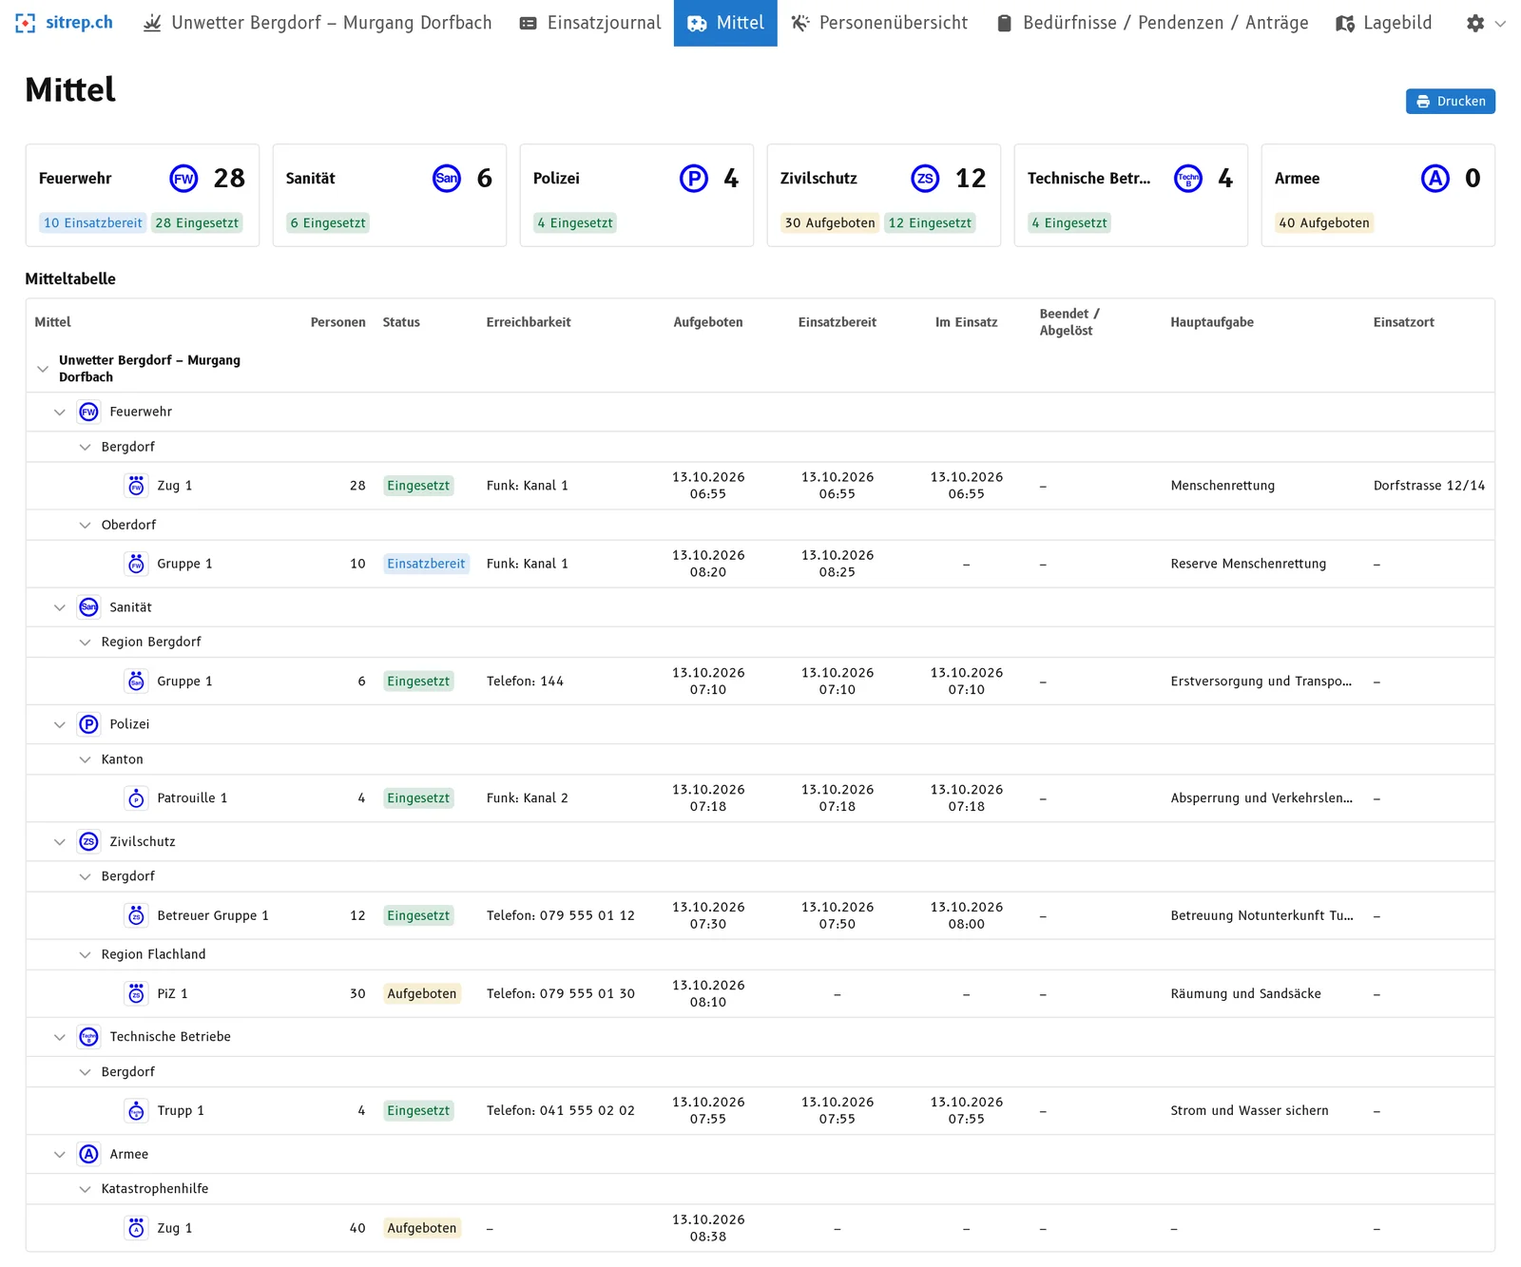
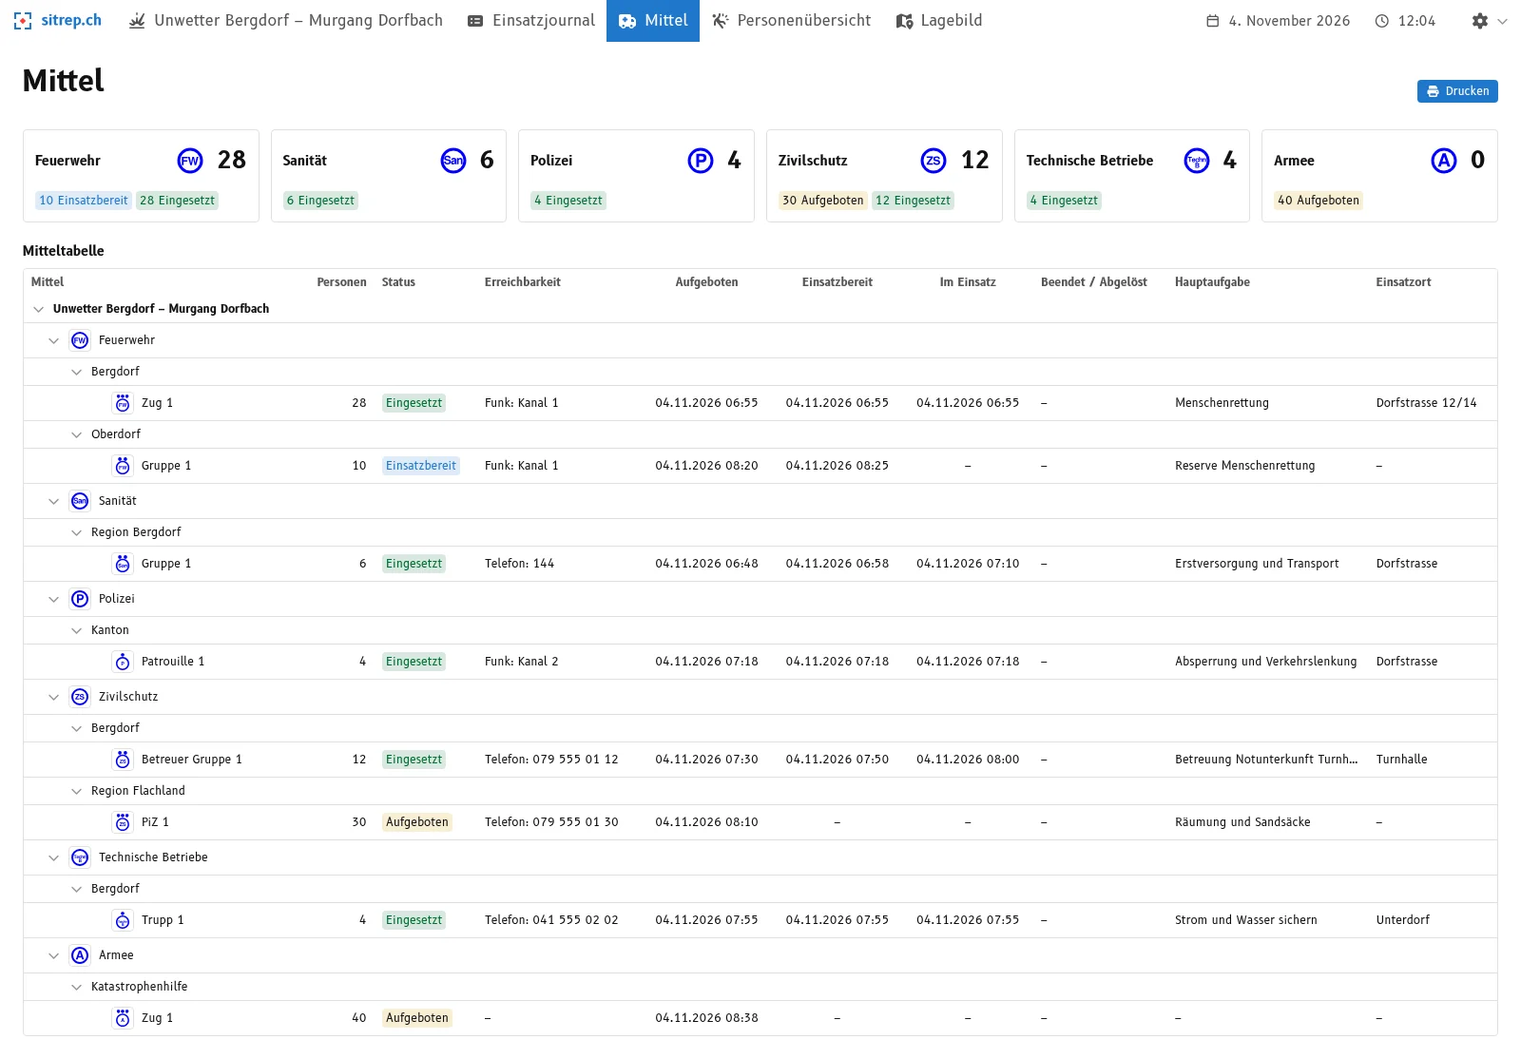
feat(content): screenshots and texts for the four-step triage (#8)
* feat(content): update the triage article for the four-step triage

The Schadenplatz step is gone from the triage. Describe four steps, add an example for the
Personen step and replace the screenshots (German UI, without tasks and review).

* feat(content): retake the feature screenshots, drop Schadenplatz and tasks from the pages

The overviews no longer split casualties by Schadenplatz, and the tasks module is not shown
publicly yet. The FR and IT wording follows the German change and should be reviewed by native speakers.

* chore(content): remove unused screenshots from 2024

They are not referenced anywhere but were still served, and show the old triage dialog.

* feat(content): publish triage blog post

* feat(content): update triage post availability to v26.11.0

* feat(content): set triage post date to 2026-11-04

* chore(content): rename triage post folder to 2026-11

---------

diff --git a/content/blog/2026-11-triage-personen-mittelubersicht/index.md b/content/blog/2026-11-triage-personen-mittelubersicht/index.md
@@ -1,7 +1,6 @@
 ---
 title: "Mit sitrep von der Meldung zur Lage in einem Schritt"
-date: 2026-10-13
-draft: true
+date: 2026-11-04
 tags: ["triage", "neue-funktion"]
 summary: "Die neue Triage-Ansicht in sitrep führt Personen- und Mittelübersicht gleich mit: Wer eine Meldung triagiert, erfasst Personen und Einsatzmittel in einem Schritt, und die Lage lässt sich jederzeit vom Bildschirm ablesen."
 cover: "images/dashboard.webp"
@@ -16,13 +15,15 @@ Jetzt zählt jede Minute. Der Stab braucht Antworten:
 
 Die Antworten stecken irgendwo in den Meldungen der letzten Stunden. Jemand blättert im Einsatzjournal, jemand anderes zählt auf einem Zettel zusammen. Das kostet Zeit, und es schleichen sich Fehler ein: eine Meldung doppelt gezählt, eine vergessen, ein Zwischenstand veraltet.
 
-Dabei wurde jede dieser Meldungen schon einmal gelesen und beurteilt: in der Triage. Genau dort setzt die neue Triage-Ansicht in sitrep an, der Software für die Führungsunterstützung. Wer eine Meldung triagiert, führt Personen- und Mittelübersicht gleich mit. Wenn die Anfrage kommt, lässt sich die Antwort vom Bildschirm ablesen.
+Dabei wurde jede dieser Meldungen schon einmal gelesen und beurteilt: in der Triage. Genau dort setzt die neue Triage-Ansicht in [sitrep]({{< relref "/funktionen" >}}) an, der Open-Source-Software für die Führungsunterstützung im Bevölkerungsschutz. Wer eine Meldung triagiert, erfasst nur, was die Meldung Neues sagt: «ein Vermisster weniger, ein Verletzter mehr», «Zug aufgeboten», «Gruppe eingesetzt». Personen- und Mittelübersicht ergeben sich daraus von selbst. Wenn die Anfrage kommt, lässt sich die Antwort vom Bildschirm ablesen.
+
+Die neue Triage-Ansicht haben wir gemeinsam mit ausgewählten Organisationen entwickelt und in einer grossen Übung getestet. Mit dem Release [v26.11.0](https://github.com/f-eld-ch/sitrep/releases/tag/v26.11.0) ist sie für alle sitrep-Nutzenden verfügbar.
 
 In diesem Artikel zeigen wir, wie das funktioniert und warum die Triage der richtige Ort dafür ist. Sie erfahren auch, warum das keinen Zusatzaufwand bedeutet.
 
 ## Was der Führungsbehelf dazu sagt
 
-Der Führungsbehelf «Handbuch Führungsunterstützung – Lage» legt den Weg der Meldung klar fest:
+Der BABS-Behelf «Behelf Einsatz Lage» legt den Weg der Meldung klar fest:
 
 - Die **Triage** ist die Stelle, an der Meldungen in den Lageverarbeitungszyklus eintreten. Dort werden alle Meldungen gesichtet, priorisiert und an die richtigen Stellen weitergeleitet. Beim Triagieren wird auch festgelegt, welche Inhalte in welchen Produkten erfasst werden.
 - Die **Mittelübersicht** gehört zu den Standardprodukten im Sachbereich Lage. Sie ist der tabellarische Überblick über alle Einsatzmittel: auf Pikett gestellt, aufgeboten, einsatzbereit, eingesetzt oder zur Ablösung vorgesehen.
@@ -38,7 +39,7 @@ Man könnte die Übersichten auch «bei Bedarf» nachführen, zum Beispiel jede 
 Die Person in der Triage hat die Meldung vor sich. Sie weiss, was gemeint ist, und kann bei Unklarheiten sofort nachfragen. Eine Stunde später muss jemand die Meldung erneut lesen und deuten.
 
 **2. Nachzählen ist fehleranfällig.**
-Wer alle Meldungen periodisch zusammenzählt, muss jede Meldung nochmals anfassen. Das ist die perfekte Gelegenheit für Doppelzählungen und Vergessenes. Wer jede Änderung genau einmal erfasst, zählt automatisch richtig.
+Wer alle Meldungen periodisch zusammenzählt, muss jede Meldung nochmals anfassen. So entstehen Doppelzählungen, und Meldungen gehen vergessen. Wer jede Änderung genau einmal erfasst, zählt automatisch richtig.
 
 **3. Alle arbeiten mit denselben Zahlen.**
 Der Behelf verlangt, dass sich Textprodukte und Grafikprodukte nicht widersprechen. Das geht nur, wenn es eine gemeinsame Quelle gibt. In sitrep sind Dashboard, Personenübersicht und Mittelübersicht immer aus denselben Triage-Eingaben berechnet.
@@ -48,9 +49,9 @@ Wenn der Stab fragt «Woher kommen die 37 Obdachlosen?», lässt sich das zur Me
 
 Kurz: **Die Information wird einmal erfasst, am richtigen Ort im Prozess, und steht danach in allen Übersichten bereit.**
 
-## Die neue Triage in fünf Schritten
+## Die neue Triage in vier Schritten
 
-Bisher wurden Meldungen mit Schaltflächen direkt bei der Meldung triagiert. Die neue Triage-Ansicht ist eine eigene Ansicht und führt durch fünf Schritte. Das Beispiel ist ein fiktives Ereignis: ein Murgang im Dorf «Bergdorf» nach einem Unwetter.
+Die Triage-Ansicht führt durch vier Schritte. Das Beispiel ist ein fiktives Ereignis: ein Murgang im Dorf «Bergdorf» nach einem Unwetter. Alle Namen und Zahlen auf den Bildern sind erfunden.
 
 ### 1. Meldung prüfen
 
@@ -64,21 +65,15 @@ Hier wird entschieden, wer die Meldung erhalten muss: Chef Einsatz, Nachrichtenk
 
 ![Schritt 2: Meldefluss festlegen](images/triage-2-meldefluss.webp)
 
-### 3. Schadenplatz wählen
-
-Betrifft die Meldung einen bestimmten Schadenplatz? Falls ja, wird er hier gewählt, oder direkt ein neuer angelegt. Alle Zahlen im nächsten Schritt werden diesem Schadenplatz zugeordnet.
-
-![Schritt 3: Schadenplatz wählen](images/triage-3-schadenplatz.webp)
-
-### 4. Personen erfassen
+### 3. Personen erfassen
 
 Hier werden die Personenzahlen erfasst, in den fünf Kategorien Verletzte, Vermisste, Eingeschlossene, Obdachlose und Tote.
 
-Wichtig: Man erfasst nur das, **was die Meldung Neues sagt**. Wenn eine vermisste Person gefunden wird, steht bei Vermissten «−1» und bei Verletzten oder Toten «+1». sitrep rechnet die Gesamtzahl selbst nach und verhindert, dass ein Wert unter null fällt. Rechts ist sofort die Wirkung der Eingabe zu sehen.
+Wichtig: Man erfasst nur das, **was die Meldung Neues sagt**. Meldet die Sanität drei weitere Leichtverletzte, steht bei Verletzten «+3». Wurde eine zuvor vermisste Person gefunden und ist verletzt, erfasst man bei Vermissten «−1» und bei Verletzten «+1». Rechts ist sofort die Wirkung auf die Personenübersicht zu sehen.
 
-![Schritt 4: Personen erfassen, mit Vorschau der Personenübersicht](images/triage-4-personen.webp)
+![Schritt 3: Personen erfassen, mit Vorschau der Personenübersicht](images/triage-3-personen.webp)
 
-### 5. Mittel aufbieten und disponieren
+### 4. Mittel aufbieten und disponieren
 
 Meldungen betreffen oft Einsatzmittel. Hier wird festgehalten, was mit ihnen passiert ist. Jede Änderung wird mit der **Zeit der Meldung** in der Mitteltabelle festgehalten. Ein Einsatzmittel durchläuft dabei diese Stationen:
 
@@ -91,15 +86,9 @@ Die vier wichtigsten Aktionen:
 - **Disponieren und einsetzen:** Das Mittel erhält Auftrag (Hauptaufgabe) und Einsatzort und wird eingesetzt. Beides ist Pflicht, damit die Mitteltabelle nie ein Mittel im Einsatz ohne Auftrag zeigt.
 - **Ablösen:** Ein anderes Mittel übernimmt. Auftrag und Einsatzort gehen automatisch an die Ablösung. Das abgelöste Mittel bleibt mit seiner Einsatzgeschichte in der Übersicht.
 
-Weitere Aktionen für den Alltag im Einsatz:
+Dazu kommen die Aktionen für den Alltag im Einsatz: umdisponieren, Einsatz abschliessen, entlassen, bei mehrtägigen Einsätzen reaktivieren und die Erreichbarkeit (Funkkanal, Telefon) pflegen.
 
-- **Umdisponieren:** Hauptaufgabe, Einsatzort oder Schadenplatz eines Mittels werden angepasst.
-- **Einsatz abgeschlossen:** Das Mittel kommt aus dem Einsatz zurück und ist wieder einsatzbereit.
-- **Entlassen:** Das Mittel wird aus dem Einsatz entlassen und gilt als abgelöst.
-- **Reaktivieren:** Bei mehrtägigen Einsätzen kommt ein abgelöstes Mittel am nächsten Tag wieder in den Dienst.
-- **Erreichbarkeit pflegen:** Funkkanal oder Telefonnummer lassen sich anpassen.
-
-![Schritt 5: Neues Mittel aufbieten](images/triage-5-mittel-aufbieten.webp)
+![Schritt 4: Neues Mittel aufbieten](images/triage-4-mittel-aufbieten.webp)
 
 Mit «Triage abschliessen» wird alles in einem Zug gespeichert.
 
@@ -107,19 +96,19 @@ Mit «Triage abschliessen» wird alles in einem Zug gespeichert.
 
 Digitale Lageverarbeitung darf kein Zusatzaufwand sein. Niemand soll Informationen, die die Führungsunterstützung ohnehin verarbeitet, ein zweites Mal in ein digitales Tool übertragen müssen. Sie muss ein fester Bestandteil des Verarbeitungsprozesses sein: Die Arbeit im Tool ist die Arbeit im Prozess.
 
-Genau so ist die Triage-Ansicht aufgebaut. Sie führt durch die Schritte, die der Führungsbehelf für die Triage vorsieht: Meldung prüfen, Meldefluss festlegen, Schadenplatz zuordnen, Personen und Mittel erfassen. Was in der Triage entschieden wird, ist gleichzeitig der Eintrag in den Übersichten. Es gibt keine zweite Erfassung.
+Genau so ist die Triage-Ansicht aufgebaut. Sie führt durch die Schritte, die der Führungsbehelf für die Triage vorsieht: Meldung prüfen, Meldefluss festlegen, Personen und Mittel erfassen. Was in der Triage entschieden wird, ist gleichzeitig der Eintrag in den Übersichten. Es gibt keine zweite Erfassung.
 
-Das hilft einem Stab und der Führungsunterstützung auch unter Zeitdruck, sich an die richtigen Abläufe zu halten. In den Schritten 3 bis 5 muss nur etwas erfasst werden, wenn die Meldung einen Schadenplatz, Personen oder Einsatzmittel betrifft. Sonst geht es mit «Weiter» zügig durch.
+So bleibt auch unter Zeitdruck der richtige Ablauf erhalten. In den Schritten 3 und 4 muss nur etwas erfasst werden, wenn die Meldung Personen oder Einsatzmittel betrifft. Sonst geht es mit «Weiter» zügig durch.
 
 ## Das Ergebnis: Übersichten, die dem aktuellen Triagestand entsprechen
 
-Zurück zum Beispiel aus der Einleitung: Der Kanton verlangt um 08:45 eine Lagemeldung mit Personen- und Mittelübersicht. Im Ereignis «Murgang in Bergdorf» sind die bisherigen Meldungen triagiert. Die Antwort an den Kanton ist darum keine Rechenaufgabe mehr: Die Informationen lassen sich jederzeit triageaktuell aus der Personenübersicht und der Mittelübersicht ablesen.
+Zurück zum Beispiel aus der Einleitung: Der Kanton verlangt um 08:45 eine Lagemeldung mit Personen- und Mittelübersicht. Im Ereignis «Murgang in Bergdorf» sind die bisherigen Meldungen triagiert. Die Antwort an den Kanton ist darum keine Rechenaufgabe mehr: Die Informationen lassen sich jederzeit auf dem Stand der letzten Triage aus der Personenübersicht und der Mittelübersicht ablesen.
 
 ### Personenübersicht
 
-Die Personenübersicht zeigt die Gesamtzahlen und die Aufteilung nach Schadenplätzen. Sie entspricht jederzeit dem aktuellen Triagestand, ohne dass jemand etwas zusammenzählen muss.
+Die Personenübersicht zeigt die Gesamtzahlen der fünf Kategorien. Sie entspricht jederzeit dem aktuellen Triagestand, ohne dass jemand etwas zusammenzählen muss.
 
-![Personenübersicht mit Aufteilung nach Schadenplätzen](images/personenubersicht.webp)
+![Personenübersicht mit den Gesamtzahlen der fünf Kategorien](images/personenubersicht.webp)
 
 ### Mittelübersicht
 
@@ -162,4 +151,4 @@ Ob mit Zettel, Tabelle oder einem anderen Tool: Prüfen Sie es in Ihrer nächste
 
 Wenn Ihnen diese Fragen bekannt vorkommen, probieren Sie sitrep direkt selbst aus: [demo.sitrep.ch](https://demo.sitrep.ch). Oder wir zeigen Ihnen gerne, wie sitrep damit umgeht, an einem Beispielereignis oder in Ihrer nächsten Übung. Schreiben Sie uns an [info@sitrep.ch](mailto:info@sitrep.ch).
 
-Die neue Triage-Ansicht mit Personen- und Mittelübersicht testen aktuell ausgewählte Organisationen in einer **geschlossenen Vorabversion**. Wir rechnen damit, dass sie **Anfang November** für alle sitrep-Nutzenden verfügbar ist.
+Die Triage-Ansicht ist mit dem Release v26.11.0 allgemein verfügbar.

diff --git a/content/funktionen/_index.fr.md b/content/funktionen/_index.fr.md
@@ -19,18 +19,18 @@ features:
     text: "Aucun message ne se perd : vous examinez chaque message, l'attribuez aux domaines et marquez les renseignements-clés."
     points:
       - "Fixer la priorité et marquer les renseignements-clés"
-      - "Saisir les personnes : blessés, disparus, personnes bloquées, sans-abri et décès, par zone sinistrée"
+      - "Saisir les personnes : blessés, disparus, personnes bloquées, sans-abri et décès"
       - "Saisir les moyens engagés : mise sur pied, prêt, engagement et relève"
       - "Imprimer la feuille de message, pour les domaines sans accès à sitrep"
       - "Domaines extensibles à volonté pour chaque événement"
     image: "images/features/triage-2-meldefluss.webp"
-    image2: "images/features/triage-4-personen.webp"
+    image2: "images/features/triage-3-personen.webp"
     image2_alt: "Triage : saisie des personnes, avec aperçu du tableau des personnes"
   - id: "personen"
     title: "Vue d'ensemble des personnes"
-    text: "Combien y a-t-il de blessés, de disparus, de personnes bloquées, de sans-abri et de décès, et où ? La vue d'ensemble des personnes répond immédiatement : totaux et répartition par zone sinistrée, toujours à l'état du triage."
+    text: "Combien y a-t-il de blessés, de disparus, de personnes bloquées, de sans-abri et de décès ? La vue d'ensemble des personnes répond immédiatement, toujours à l'état du triage."
     image: "images/features/personenubersicht.webp"
-    image_alt: "Vue d'ensemble des personnes avec répartition par zone sinistrée"
+    image_alt: "Vue d'ensemble des personnes avec les totaux des cinq catégories"
   - id: "mittel"
     title: "Vue d'ensemble des moyens"
     text: "Toujours une vue d'ensemble de tous les moyens d'intervention : mis sur pied, prêts, engagés, relevés. Groupés par formation, directement depuis le triage."

diff --git a/content/funktionen/_index.md b/content/funktionen/_index.md
@@ -18,18 +18,18 @@ features:
     text: "Keine Meldung geht unter: Sie sichten jede Meldung, weisen sie den Ressorts zu und markieren Schlüsselnachrichten."
     points:
       - "Priorität vergeben und Schlüsselnachrichten markieren"
-      - "Personen erfassen: Verletzte, Vermisste, Eingeschlossene, Obdachlose und Tote, pro Schadenplatz"
+      - "Personen erfassen: Verletzte, Vermisste, Eingeschlossene, Obdachlose und Tote"
       - "Eingesetzte Mittel erfassen: aufbieten, einsatzbereit melden, einsetzen und ablösen"
       - "Meldezettel ausdrucken, für Ressorts ohne sitrep-Zugang"
       - "Ressorts pro Ereignis frei erweiterbar"
     image: "images/features/triage-2-meldefluss.webp"
-    image2: "images/features/triage-4-personen.webp"
+    image2: "images/features/triage-3-personen.webp"
     image2_alt: "Triage: Personen erfassen, mit Vorschau der Personenübersicht"
   - id: "personen"
     title: "Personenübersicht"
-    text: "Wie viele Verletzte, Vermisste, Eingeschlossene, Obdachlose und Tote gibt es, und wo? Die Personenübersicht gibt die Antwort sofort: Gesamtzahlen und Verteilung pro Schadenplatz, immer auf dem Stand der Triage."
+    text: "Wie viele Verletzte, Vermisste, Eingeschlossene, Obdachlose und Tote gibt es? Die Personenübersicht gibt die Antwort sofort, immer auf dem Stand der Triage."
     image: "images/features/personenubersicht.webp"
-    image_alt: "Personenübersicht mit Aufteilung nach Schadenplätzen"
+    image_alt: "Personenübersicht mit den Gesamtzahlen der fünf Kategorien"
   - id: "mittel"
     title: "Mittelübersicht"
     text: "Jederzeit der Überblick über alle Einsatzmittel: aufgeboten, einsatzbereit, im Einsatz, abgelöst. Nach Formation gruppiert, direkt aus der Triage."

diff --git a/content/funktionen/_index.it.md b/content/funktionen/_index.it.md
@@ -19,18 +19,18 @@ features:
     text: "Nessun messaggio va perso: esaminate ogni messaggio, assegnatelo ai settori e contrassegnate le notizie chiave."
     points:
       - "Stabilire la priorità e contrassegnare le notizie chiave"
-      - "Registrare le persone: feriti, dispersi, intrappolati, senzatetto e vittime, per zona sinistrata"
+      - "Registrare le persone: feriti, dispersi, intrappolati, senzatetto e vittime"
       - "Registrare i mezzi impiegati: chiamata, pronto, impiego e sostituzione"
       - "Stampare il modulo di notifica, per i settori senza accesso a sitrep"
       - "Settori estendibili a piacere per ogni evento"
     image: "images/features/triage-2-meldefluss.webp"
-    image2: "images/features/triage-4-personen.webp"
+    image2: "images/features/triage-3-personen.webp"
     image2_alt: "Triage: registrazione delle persone, con anteprima del compendio delle persone"
   - id: "personen"
     title: "Compendio delle persone"
-    text: "Quanti feriti, dispersi, intrappolati, senzatetto e vittime ci sono, e dove? Il compendio delle persone risponde subito: totali e ripartizione per zona sinistrata, sempre allo stato del triage."
+    text: "Quanti feriti, dispersi, intrappolati, senzatetto e vittime ci sono? Il compendio delle persone risponde subito, sempre allo stato del triage."
     image: "images/features/personenubersicht.webp"
-    image_alt: "Compendio delle persone con ripartizione per zona sinistrata"
+    image_alt: "Compendio delle persone con i totali delle cinque categorie"
   - id: "mittel"
     title: "Compendio dei mezzi"
     text: "Sempre una panoramica di tutti i mezzi d'intervento: chiamati, pronti, impiegati, sostituiti. Raggruppati per formazione, direttamente dal triage."

diff --git a/content/_index.fr.md b/content/_index.fr.md
@@ -11,7 +11,7 @@ showcase:
     image: "images/features/triage-2-meldefluss.webp"
   - anchor: "personen"
     title: "Vue d'ensemble des personnes et des moyens"
-    text: "Combien y a-t-il de blessés, de disparus et de décès, et où ? Quels moyens sont mis sur pied, prêts, engagés ? La réponse vient directement du triage."
+    text: "Combien y a-t-il de blessés, de disparus et de décès ? Quels moyens sont mis sur pied, prêts, engagés ? La réponse vient directement du triage."
     image: "images/features/mittelubersicht.webp"
   - anchor: "karte"
     title: "Carte de renseignements"
@@ -30,7 +30,7 @@ facts:
   - title: "Open source"
     text: "Toute organisation peut exploiter, modifier et faire évoluer sitrep elle-même, contrairement aux outils souvent propriétaires et chers. Les modifications reviennent au projet ([AGPL-3.0](https://github.com/f-eld-ch/sitrep/blob/HEAD/LICENSE))."
   - title: "Fonctionnalités"
-    text: "Vue d'ensemble des personnes et des moyens directement depuis le triage, avec journal d'intervention, carte de renseignements et tableau de la situation. Besoins / tâches en suspens / demandes en développement."
+    text: "Vue d'ensemble des personnes et des moyens directement depuis le triage, avec journal d'intervention, carte de renseignements et tableau de la situation."
   - title: "Décentralisé et robuste"
     text: "Vous pouvez exploiter sitrep vous-même, par exemple au poste de commandement, ou l'utiliser comme service. Il n'existe pas un service central unique dont dépendent tous les états-majors. La fédération entre instances est prévue."
   - title: "Sobre en ressources"

diff --git a/content/_index.it.md b/content/_index.it.md
@@ -11,7 +11,7 @@ showcase:
     image: "images/features/triage-2-meldefluss.webp"
   - anchor: "personen"
     title: "Compendio delle persone e dei mezzi"
-    text: "Quanti feriti, dispersi e vittime ci sono, e dove? Quali mezzi sono chiamati, pronti, impiegati? La risposta arriva direttamente dal triage."
+    text: "Quanti feriti, dispersi e vittime ci sono? Quali mezzi sono chiamati, pronti, impiegati? La risposta arriva direttamente dal triage."
     image: "images/features/mittelubersicht.webp"
   - anchor: "karte"
     title: "Carta informativa"
@@ -30,7 +30,7 @@ facts:
   - title: "Open source"
     text: "Ogni organizzazione può gestire, modificare e sviluppare sitrep autonomamente, a differenza degli strumenti spesso proprietari e costosi. Le modifiche tornano al progetto ([AGPL-3.0](https://github.com/f-eld-ch/sitrep/blob/HEAD/LICENSE))."
   - title: "Funzionalità"
-    text: "Compendio delle persone e dei mezzi direttamente dal triage, insieme a giornale d'intervento, carta informativa e quadro della situazione. Necessità / compiti in sospeso / richieste in sviluppo."
+    text: "Compendio delle persone e dei mezzi direttamente dal triage, insieme a giornale d'intervento, carta informativa e quadro della situazione."
   - title: "Decentralizzato e robusto"
     text: "Potete gestire sitrep autonomamente, per esempio al posto di comando, oppure usarlo come servizio. Non esiste un unico servizio centrale da cui dipendono tutti gli stati maggiori. È prevista la federazione tra istanze."
   - title: "Parsimonioso con le risorse"

diff --git a/content/_index.md b/content/_index.md
@@ -11,7 +11,7 @@ showcase:
     image: "images/features/triage-2-meldefluss.webp"
   - anchor: "personen"
     title: "Personen- und Mittelübersicht"
-    text: "Wie viele Verletzte, Vermisste und Tote gibt es, und wo? Welche Mittel sind aufgeboten, bereit, im Einsatz? Die Antwort kommt direkt aus der Triage."
+    text: "Wie viele Verletzte, Vermisste und Tote gibt es? Welche Mittel sind aufgeboten, bereit, im Einsatz? Die Antwort kommt direkt aus der Triage."
     image: "images/features/mittelubersicht.webp"
   - anchor: "karte"
     title: "Nachrichtenkarte"
@@ -30,7 +30,7 @@ facts:
   - title: "Open Source"
     text: "Jede Organisation kann sitrep selber betreiben, verändern und weiterentwickeln, im Gegensatz zu oft proprietären, teuren Tools. Änderungen fliessen zurück ins Projekt ([AGPL-3.0](https://github.com/f-eld-ch/sitrep/blob/HEAD/LICENSE))."
   - title: "Funktionen"
-    text: "Personen- und Mittelübersicht direkt aus der Triage, dazu Einsatzjournal, Nachrichtenkarte und Lagebild. Bedürfnisse / Pendenzen / Anträge sind in Entwicklung."
+    text: "Personen- und Mittelübersicht direkt aus der Triage, dazu Einsatzjournal, Nachrichtenkarte und Lagebild."
   - title: "Dezentral und robust"
     text: "Sie können sitrep selber betreiben, etwa im Kommandoposten, oder als Service nutzen. Es gibt nicht den einen zentralen Dienst, von dem alle Stäbe abhängen. Geplant ist die Föderation zwischen Instanzen."
   - title: "Ressourcenschonend"
